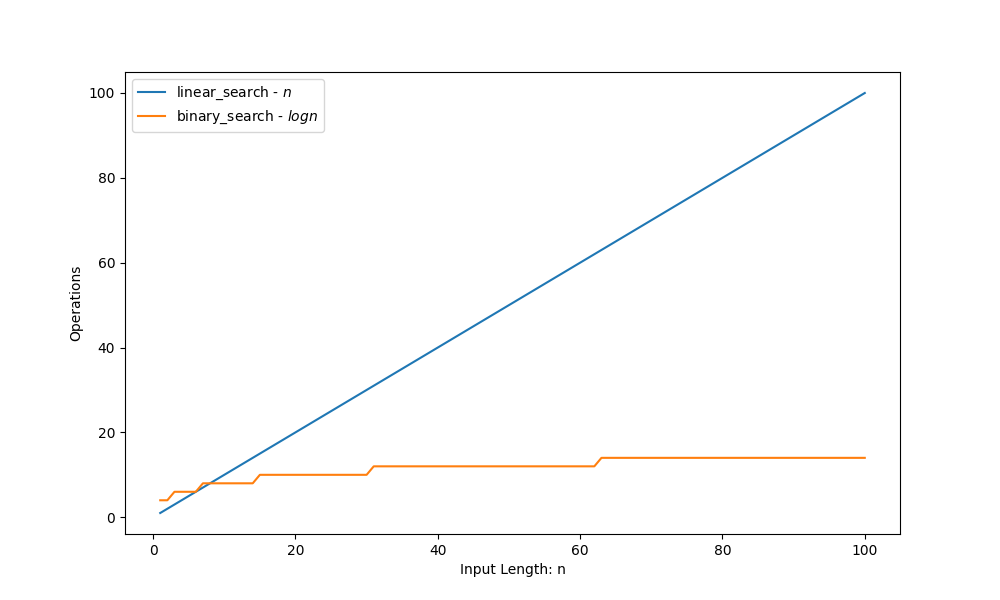
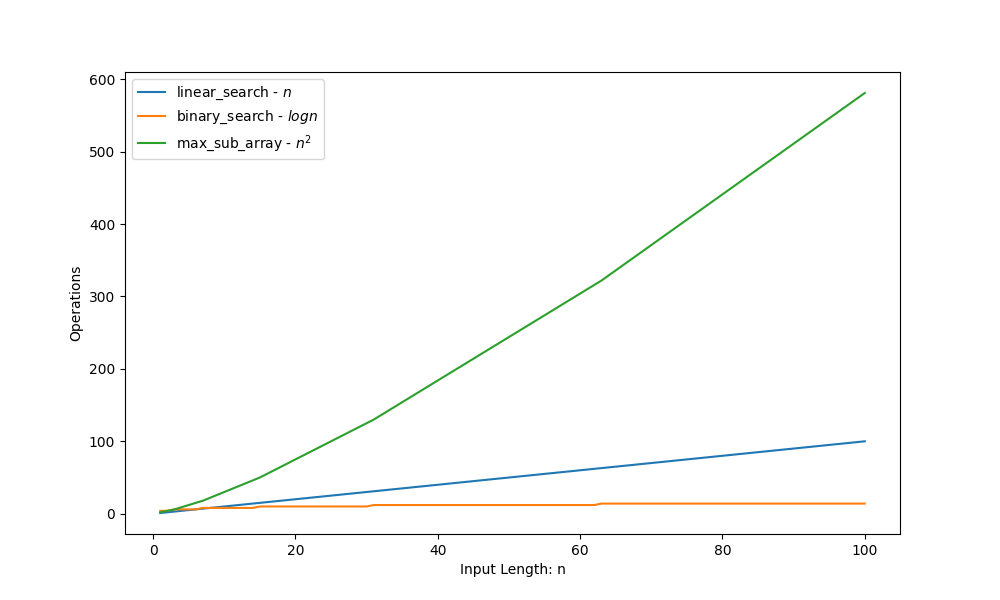
max_sub_array

diff --git a/Searching/algorithms/max_sub_array.py b/Searching/algorithms/max_sub_array.py
@@ -1,0 +1,40 @@
+def max_crossing_sub_array(A:list[int], low:int, mid:int, high:int) -> tuple[int, int, int]:
+
+    sum = 0
+    max_left = mid
+    left_sum = float('-inf')
+    for i in range(mid-1, low-1, -1):
+        sum += A[i]
+        if sum > left_sum:
+            left_sum = sum
+            max_left = i
+
+    sum = 0
+    max_right = mid
+    right_sum = float('-inf')
+    for j in range(mid, high-1):
+        sum = sum + A[j]
+        if sum > right_sum:
+            right_sum = sum
+            max_right = j
+    
+    return ( max_left, max_right, left_sum + right_sum )
+
+def max_sub_array(A:list[int], low:int=0, high:int=-1) -> tuple[int, int, int]:
+    if high == low: return ( low, high, A[low-1] )
+    if high == -1: high = len(A)
+
+    mid = ( low+high )//2
+
+    left_low, left_high, left_sum = max_sub_array(A, low, mid)
+    right_low, right_high, right_sum = max_sub_array(A, mid+1, high)
+    cross_low, cross_high, cross_sum = max_crossing_sub_array(A, low, mid, high)
+
+    if left_sum >= right_sum and left_sum >= cross_sum: return ( left_low, left_high, left_sum )
+    if right_sum >= left_sum and right_sum >= cross_sum: return ( right_low, right_high, right_sum )
+    return ( cross_low, cross_high, cross_sum )
+
+
+
+print(max_sub_array([28, 0]))
+#print(max_sub_array([13, -3, -25, -20, -3, -16, -23, 18, 20, -7, 12, -5, -22, 15, -4, 7]))

diff --git a/lib/analyzer.py b/lib/analyzer.py
@@ -1,11 +1,20 @@
+import random
 from ca_types import ComplexityAnalizerList
 
-
-def generate__list_of_numbers__test_cases(n_test_case: int):
+def generate__list_of_naturals__test_cases(n_test_case: int):
     test_case_lengths = [ test_case for test_case in range(1, n_test_case+1) ]
     test_cases = [
         ComplexityAnalizerList(
             [i for i in range(test_case_lengths[i], 0, -1)]
+        ) for i in range(n_test_case)
+    ]
+    return {'test_case': test_cases, 'length':test_case_lengths}
+
+def generate__list_of_non_sorted_integers__test_case(n_test_case: int):
+    test_case_lengths = [ test_case for test_case in range(1, n_test_case+1) ]
+    test_cases = [
+        ComplexityAnalizerList(
+            [random.randrange(-test_case_lengths[i], test_case_lengths[i]) for i in range(test_case_lengths[i])]
         ) for i in range(n_test_case)
     ]
     return {'test_case': test_cases, 'length':test_case_lengths}

diff --git a/Searching/README.md b/Searching/README.md
@@ -11,6 +11,18 @@ README writed by: [MARKPLATE](https://github.com/cecinuga/markplate)
 **Binary Search - $\ O(log n)$**
 --------------------------------
 
+**Max Sub Array - $\ O(None)$**
+-------------------------------
+
+**Linear Search - $\ O(n)$**
+----------------------------
+
+**Binary Search - $\ O(log n)$**
+--------------------------------
+
+**Max Sub Array - $\ O(None)$**
+-------------------------------
+
 ![](./source/searching_complexity.png)Complexity Analysis
   
 
